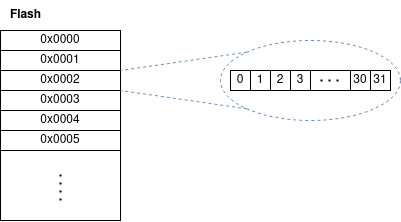
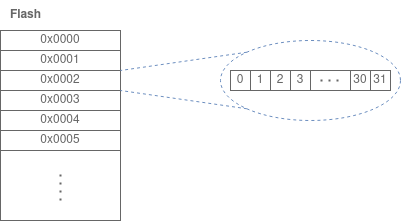
Changed images to gray

diff --git a/bootloader_samples/README.md b/bootloader_samples/README.md
@@ -69,5 +69,3 @@ The format here is START\_ADDRESS: NAME (SIZE_HEX - SIZE_BYTE).
 ## Basic Bootloader Features
 Now you might think: "Okey, so a bootloader starts the application. But what is the point of that?"  
 This functionality lets us add some features to our program. The two most important features are 
-test
-
